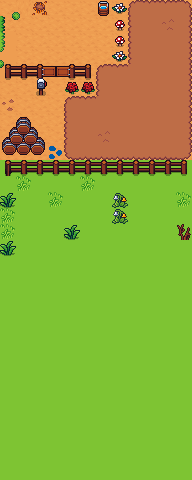
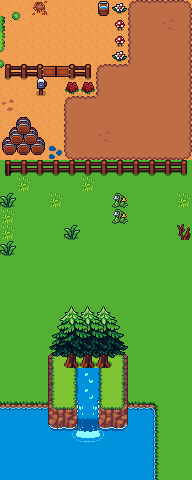
Fix waterfall animation: add extraction script, 4-frame spritesheet
Add extract_waterfall() to extract-farm-sprites.py that hash-matches
grass.png tiles against the cliff tileset to generate a proper 4-frame
animation spritesheet. Fix CSS to use steps(4)/400% instead of
steps(2)/200%. Also prevent extract_ground_tiles() from overwriting the
user's hand-designed grass.png.

diff --git a/themes/terminal-books/assets/css/farm-page.css b/themes/terminal-books/assets/css/farm-page.css
@@ -125,17 +125,8 @@
 }
 
 .fp-cell-pond.fp-cell-built {
-  border-radius: 2px;
-  display: flex;
-  align-items: center;
-  justify-content: center;
-}
-
-.fp-cell-pond.fp-cell-built .fp-sprite-img {
-  position: static;
-  inset: auto;
-  width: 192px;
-  height: 96px;
+  border: 0;
+  background: none;
 }
 
 .fp-cell-gathering:not(.fp-cell-built) {
@@ -810,6 +801,26 @@
 
 @keyframes fp-anim-fountain {
   to { background-position: -384px 0; }
+}
+
+/* ── Waterfall animation — 4 frames, percentage-positioned overlay ── */
+.fp-anim-waterfall {
+  position: absolute;
+  left: 0;
+  top: 76.67%;
+  width: 83.33%;
+  height: 23.33%;
+  background: url('/images/farm/animations/waterfall.png') 0 0 no-repeat;
+  background-size: 400% 100%;
+  image-rendering: pixelated;
+  image-rendering: crisp-edges;
+  z-index: 1;
+  pointer-events: none;
+  animation: fp-anim-waterfall 0.8s steps(4) infinite;
+}
+
+@keyframes fp-anim-waterfall {
+  to { background-position: -400% 0; }
 }
 
 /* ── Responsive ───────────────────────────────────────── */

diff --git a/scripts/extract-farm-sprites.py b/scripts/extract-farm-sprites.py
@@ -169,7 +169,8 @@ def extract_ground_tiles():
                     t = t.transpose(tr)
             composite.paste(t, (col * 16, row * 16))
 
-    composite.save(os.path.join(out_dir, 'grass.png'))
+    grass_out = os.path.join(out_dir, 'grass-grid.png')
+    composite.save(grass_out)
 
     # Tilled soil tile: 16x16 from Tilled Soil and wet soil.png at (0,0)
     soil_src = os.path.join(TILESET_DIR, 'Tilled Soil and wet soil.png')
@@ -242,6 +243,119 @@ def extract_pond_composite():
     print('Pond: 1 PNG (96x48 tileset composite)')
 
 
+def extract_waterfall():
+    """Generate 4-frame waterfall animation spritesheet.
+
+    Hash-matches grass.png tiles against tileset rows 6-9 to find animated
+    waterfall tiles, then cycles through odd groups (1,3,5,7) for 4 frames.
+    Static water/cliff tiles are copied unchanged into all frames.
+    Output: static/images/farm/animations/waterfall.png (640x112)
+    """
+    import hashlib
+
+    TILE = 16
+    grass_path = os.path.join(OUT, 'ground', 'grass.png')
+    tileset_path = os.path.join(TILESET_DIR,
+                                'Tileset Grass Cliff Tileset Summer.png')
+
+    grass = Image.open(grass_path)
+    tileset = Image.open(tileset_path)
+
+    G_COLS = grass.width // TILE   # 12
+    G_ROWS = grass.height // TILE  # 30
+
+    # Build hash map of tileset tiles at rows 6-9 (waterfall body/splash)
+    ts_hash_map = {}  # md5 -> (col, row)
+    for tr in range(6, 10):
+        for tc in range(24):
+            tile = tileset.crop((tc * TILE, tr * TILE,
+                                 tc * TILE + TILE, tr * TILE + TILE))
+            h = hashlib.md5(tile.tobytes()).hexdigest()
+            ts_hash_map[h] = (tc, tr)
+
+    # Scan grass.png for matches
+    match_info = {}  # grass (col, row) -> (sub_col, tileset_row)
+    water_tiles = set()  # grass (col, row) of blue-dominant static tiles
+
+    for gr in range(G_ROWS):
+        for gc in range(G_COLS):
+            tile = grass.crop((gc * TILE, gr * TILE,
+                               gc * TILE + TILE, gr * TILE + TILE))
+            h = hashlib.md5(tile.tobytes()).hexdigest()
+            if h in ts_hash_map:
+                tc, tr = ts_hash_map[h]
+                match_info[(gc, gr)] = (tc % 3, tr)
+            else:
+                # Check if blue-dominant (static water)
+                # Require avg blue > 80 to exclude dark shadow tiles
+                pixels = list(tile.getdata())
+                if pixels:
+                    n = len(pixels)
+                    avg_b = sum(p[2] for p in pixels) // n
+                    avg_r = sum(p[0] for p in pixels) // n
+                    avg_g = sum(p[1] for p in pixels) // n
+                    if avg_b > 80 and avg_b > avg_r and avg_b > avg_g:
+                        water_tiles.add((gc, gr))
+
+    # Calculate bounding box from matched + water tiles
+    all_tiles = set(match_info.keys()) | water_tiles
+    if not all_tiles:
+        print('Waterfall: no tiles found, skipping')
+        return
+
+    min_c = min(t[0] for t in all_tiles)
+    max_c = max(t[0] for t in all_tiles)
+    min_r = min(t[1] for t in all_tiles)
+    max_r = max(t[1] for t in all_tiles)
+
+    box_w = (max_c - min_c + 1) * TILE
+    box_h = (max_r - min_r + 1) * TILE
+    num_frames = 4
+
+    # Odd group animation cycle: groups 1, 3, 5, 7
+    frame_groups = [1, 3, 5, 7]
+
+    # Build 4-frame horizontal spritesheet
+    sheet = Image.new('RGBA', (box_w * num_frames, box_h), (0, 0, 0, 0))
+
+    for frame_idx in range(num_frames):
+        for gr in range(min_r, max_r + 1):
+            for gc in range(min_c, max_c + 1):
+                dx = (gc - min_c) * TILE + frame_idx * box_w
+                dy = (gr - min_r) * TILE
+
+                if (gc, gr) in match_info:
+                    sub_col, ts_row = match_info[(gc, gr)]
+                    # Cycle through odd groups for this frame
+                    group = frame_groups[frame_idx]
+                    src_col = group * 3 + sub_col
+                    tile = tileset.crop((src_col * TILE, ts_row * TILE,
+                                        src_col * TILE + TILE,
+                                        ts_row * TILE + TILE))
+                    sheet.paste(tile, (dx, dy), tile)
+                elif (gc, gr) in water_tiles:
+                    # Static water — same in all frames
+                    tile = grass.crop((gc * TILE, gr * TILE,
+                                      gc * TILE + TILE, gr * TILE + TILE))
+                    sheet.paste(tile, (dx, dy), tile)
+                # else: transparent (grass/empty)
+
+    anim_dir = os.path.join(OUT, 'animations')
+    ensure_dir(anim_dir)
+    out_path = os.path.join(anim_dir, 'waterfall.png')
+    sheet.save(out_path)
+
+    print('Waterfall: 1 PNG ({}x{}, {} frames)'.format(
+        sheet.width, sheet.height, num_frames))
+    print('  Bounding box: cols {}-{}, rows {}-{} ({}x{}px)'.format(
+        min_c, max_c, min_r, max_r, box_w, box_h))
+    print('  Animated tiles: {}, static water: {}'.format(
+        len(match_info), len(water_tiles)))
+    print('  CSS: top: {:.2f}%; left: {:.2f}%; width: {:.2f}%; height: {:.2f}%'.format(
+        min_r / G_ROWS * 100, min_c / G_COLS * 100,
+        box_w / grass.width * 100, box_h / grass.height * 100))
+
+
 def extract_tree_decoration():
     """Extract decorative maple tree sprite."""
     out_dir = os.path.join(OUT, 'stations')
@@ -268,5 +382,6 @@ if __name__ == '__main__':
     extract_ground_tiles()
     extract_pond_composite()
     extract_tree_decoration()
+    extract_waterfall()
     print()
     print('Done!')
